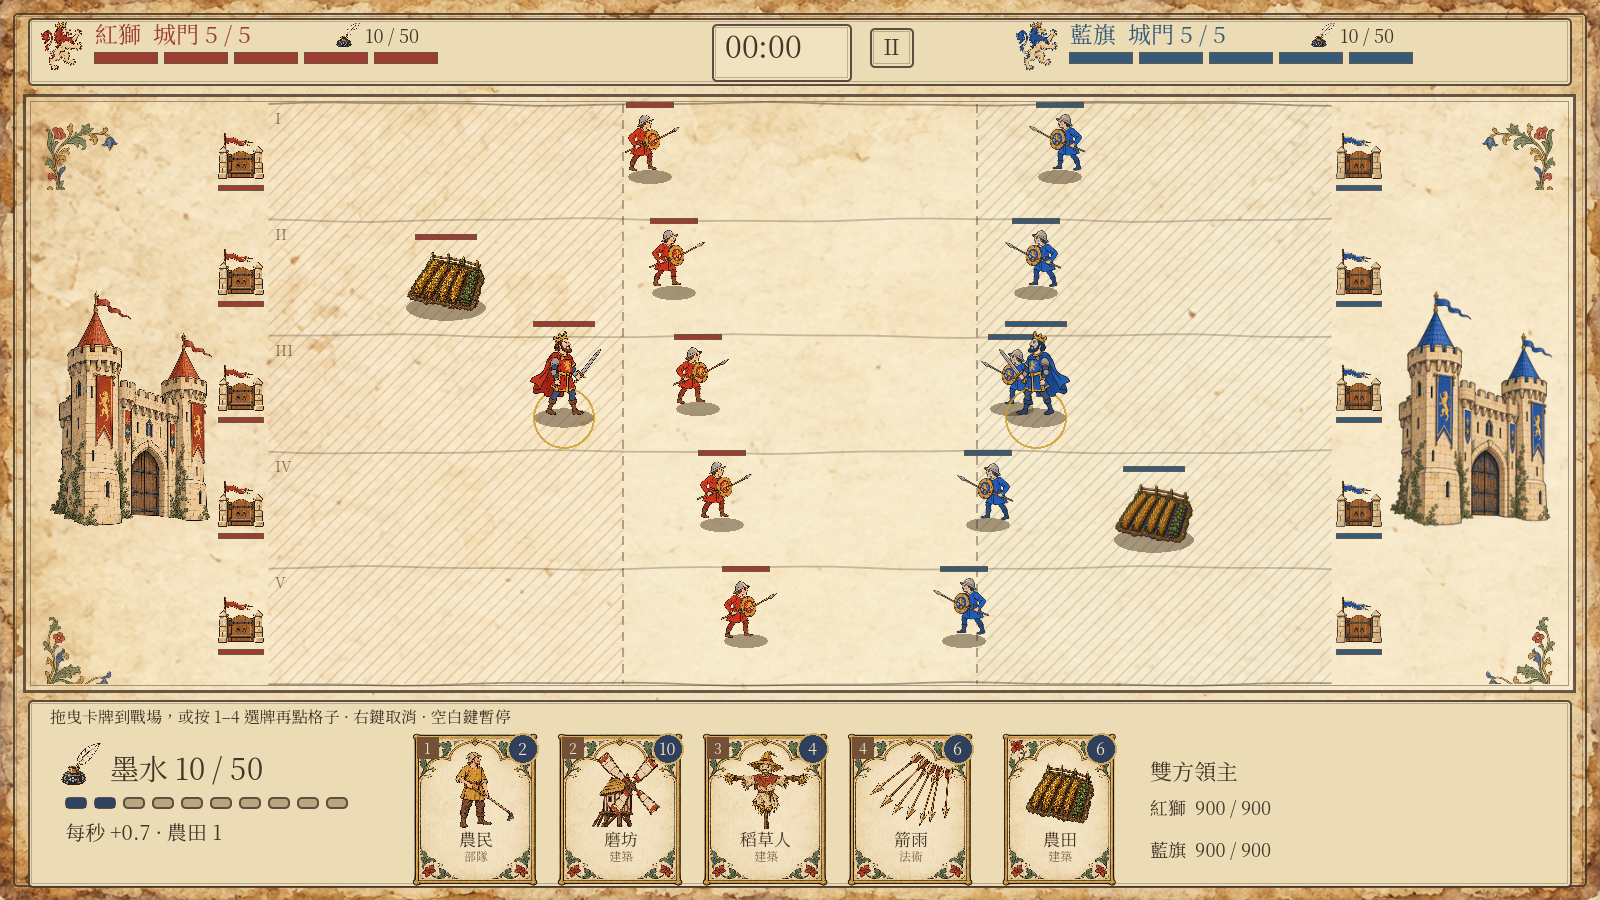
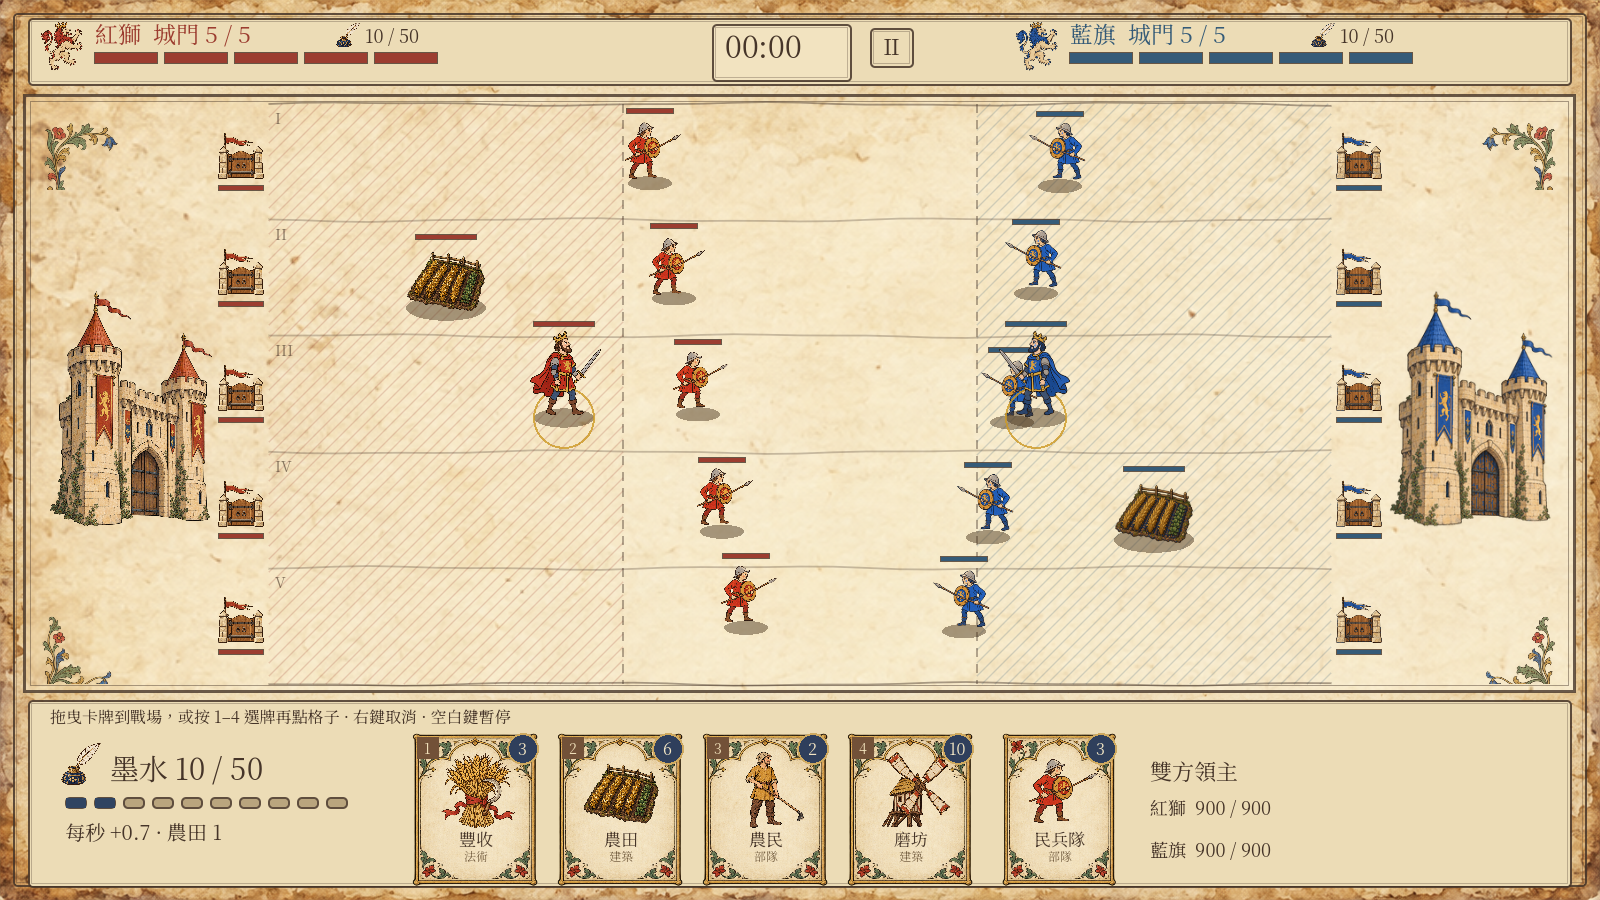
Units overlap; each gets a small up/down offset when placed
Replaces the front-to-back column layout. The offset (up to 16 px,
seeded) is drawing only; combat still uses pos. AGENTS.md status
brought up to date. Producer decision 2026-10-29.

diff --git a/AGENTS.md b/AGENTS.md
@@ -1,12 +1,12 @@
 # AGENTS.md — 羊皮紙戰記（five-lane-lords）
 
 - 企劃與任務清單：`docs/企劃書.md`（v4.1：墨水上限 50＋8 張牌組輪轉；卡牌分部隊／建築／法術；農田像向日葵自己產墨水、沒有上限；農民是部隊，經過農田時停下耕地加速；部隊只往前走不回頭；雙方領主完全由 AI 接管；16:9）。照「第三部：實作任務」的順序做，一次一個任務。
-- T0 已完成（1600×900、layout.gd／balance.gd、kind 單位、buildings、--seed）。下一個任務是 T1。目前仍保留 v1 金幣、農田收入、WASD 操作領主、計時出兵與回頭追擊，會在 T1–T4 逐步被取代。
+- 進度（2026-10-29）：T0–T6 已完成並提交；之後製作人改了規則（企劃書 v4.2–v4.5：沒有皇冠、城門破了敵兵走進家就輸、城門不反擊、殘垣 3 秒、單位可重疊），以及手感、紙上戰爭畫面、觀戰倍速（Claude 接手完成）。T7 的介面大部分已做；還沒做的是 T9 平衡模擬工具與 T10 教學、結算。
 - Git 已初始化，v1 基線 commit：ff32c1c。每個任務完成後各自提交。
 - Godot 4.7.1；測試：`godot_console --headless --path . -s smoke_test.gd`（回傳 0 才算完成）。新規則要在 smoke_test.gd 用 `check()` 加檢查。
 - 有畫面改動時，不加 `--headless` 跑一次會重拍 `preview.png`，看過再交。
-- 不要改回去的設計：領主由 `game.gd` 統一繪製、`layout_formations` 只影響畫面、城門停點不變量（企劃書第 7 節）、戰鬥中按 R 不重開、農田不設數量上限。
+- 不要改回去的設計：領主由 `game.gd` 統一繪製、單位畫面上下錯開（`dy`）只影響畫面、單位可以重疊、城門停點不變量（企劃書第 7 節）、戰鬥中按 R 不重開、農田不設數量上限。
 - 新美術素材的 prompt 要存進 `assets/manuscript-v1/` 的 json/txt。
 - 遇到企劃書「待製作人決定的事」先問，不要自己決定。
 
-- 製作人最新指示（2026-10-29）：所有陣營共用單一套美術素材，不再生成或引用紅藍兩套；後期再調色。
+- 製作人最新指示（2026-10-29）：所有陣營共用單一套美術素材，不再生成或引用紅藍兩套。藍方由 `game.gd` 的 `recolor_blue()` 在載入時把紅色換成藍色，不要整張染色。

diff --git a/docs/企劃書.md b/docs/企劃書.md
@@ -210,7 +210,7 @@
 - **部隊**：只往前走。目標＝攻擊範圍內（前後都算）最近的敵方單位或建築；有目標就停下來打，沒有就前進；到城門停點就打城門，城門已破就走進去。**不追擊身後範圍外的敵人。**
 - 優先順序：嘲諷中的稻草人 > 攻擊範圍內的敵方單位／建築 > 領主（54px，限敵方部隊） > 城門 > 前進（城門已破＝走進家門）。攻城槌例外：只打建築與城門。
 - 建築與城門：固定，對範圍內最近的敵方部隊攻擊（若有攻擊能力）。
-- 同一路擠在同一點的部隊「只在畫面上」排成一列（`layout_formations`），戰鬥判定用 `pos`。
+- 部隊可以重疊（v4.5）。每個部隊放下時隨機上下錯開最多 16px（`dy`，只影響畫面），戰鬥判定用 `pos`。
 - 遠程：射程內有敵人就停下射；箭是實體物件、飛行 0.35 秒，命中才扣血。
 - ⚠ 目前程式（v1 修正版）的 `SIGHT_RANGE = 250` 會讓部隊轉身追擊身後的敵人；v4 改成「不回頭」，靠第 7 節的城門停點不變量＋領主＋建築來防守。T1 要一併改掉，並保留「gate fights」測試（改成新規則下的版本）。
 
@@ -250,7 +250,7 @@
 5. 已知陷阱：
    - typed 陣列不能整個用一般陣列指派（`castle = [1.0, 2.0]` 會報錯），要逐格改或用 `Array[float]([...])`。
    - 領主由 `game.gd` 的 `_draw` 統一繪製（為了和部隊排前後、被暫停橫幅蓋住）；`lord.gd` 只放邏輯，不要再加 Sprite2D。兩位領主共用 `lord.gd`。
-   - `layout_formations` 只影響畫面；戰鬥一律用 `unit.pos`。
+   - 畫面位置 `draw = pos + (0, dy)` 只影響畫面；戰鬥一律用 `unit.pos`。
    - 城門停點不變量見第 7 節；`SIGHT_RANGE` 回頭追擊要在 T1 移除（第 15 節）。
    - 戰鬥中按 R 不會重開（防誤觸），不要改回去。
 6. 每個任務一個 git commit（若專案尚未 `git init`，先問製作人）。
